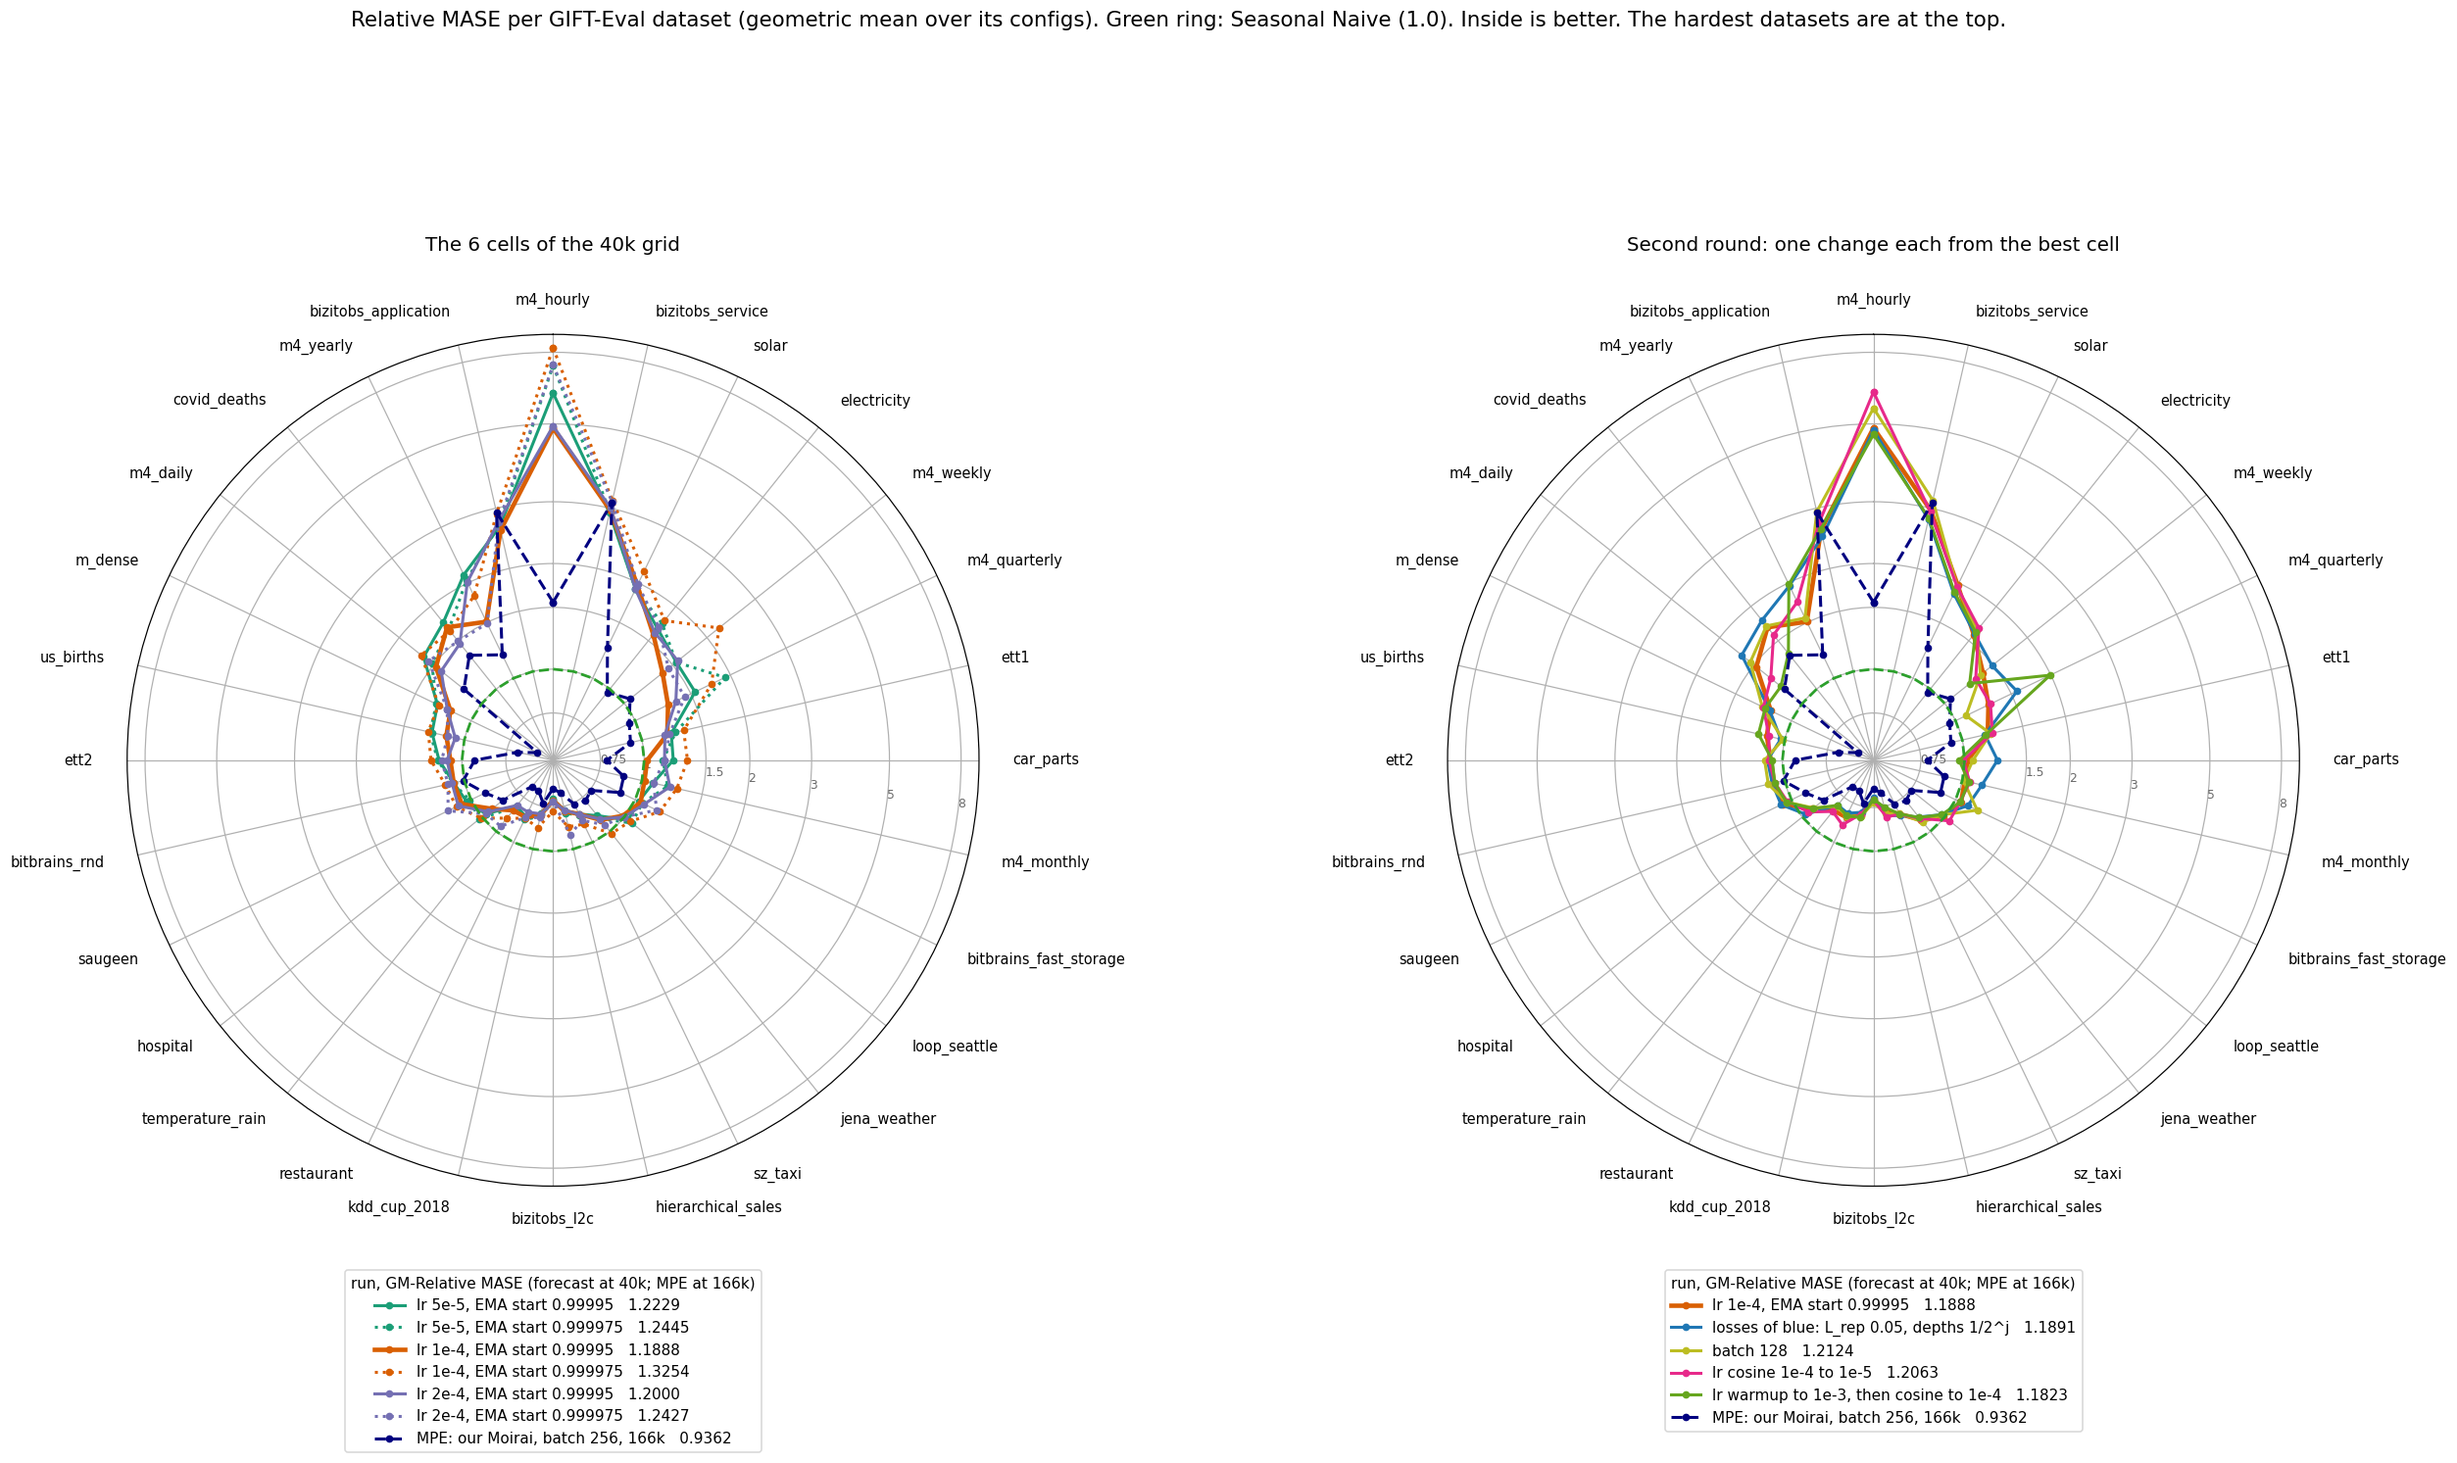
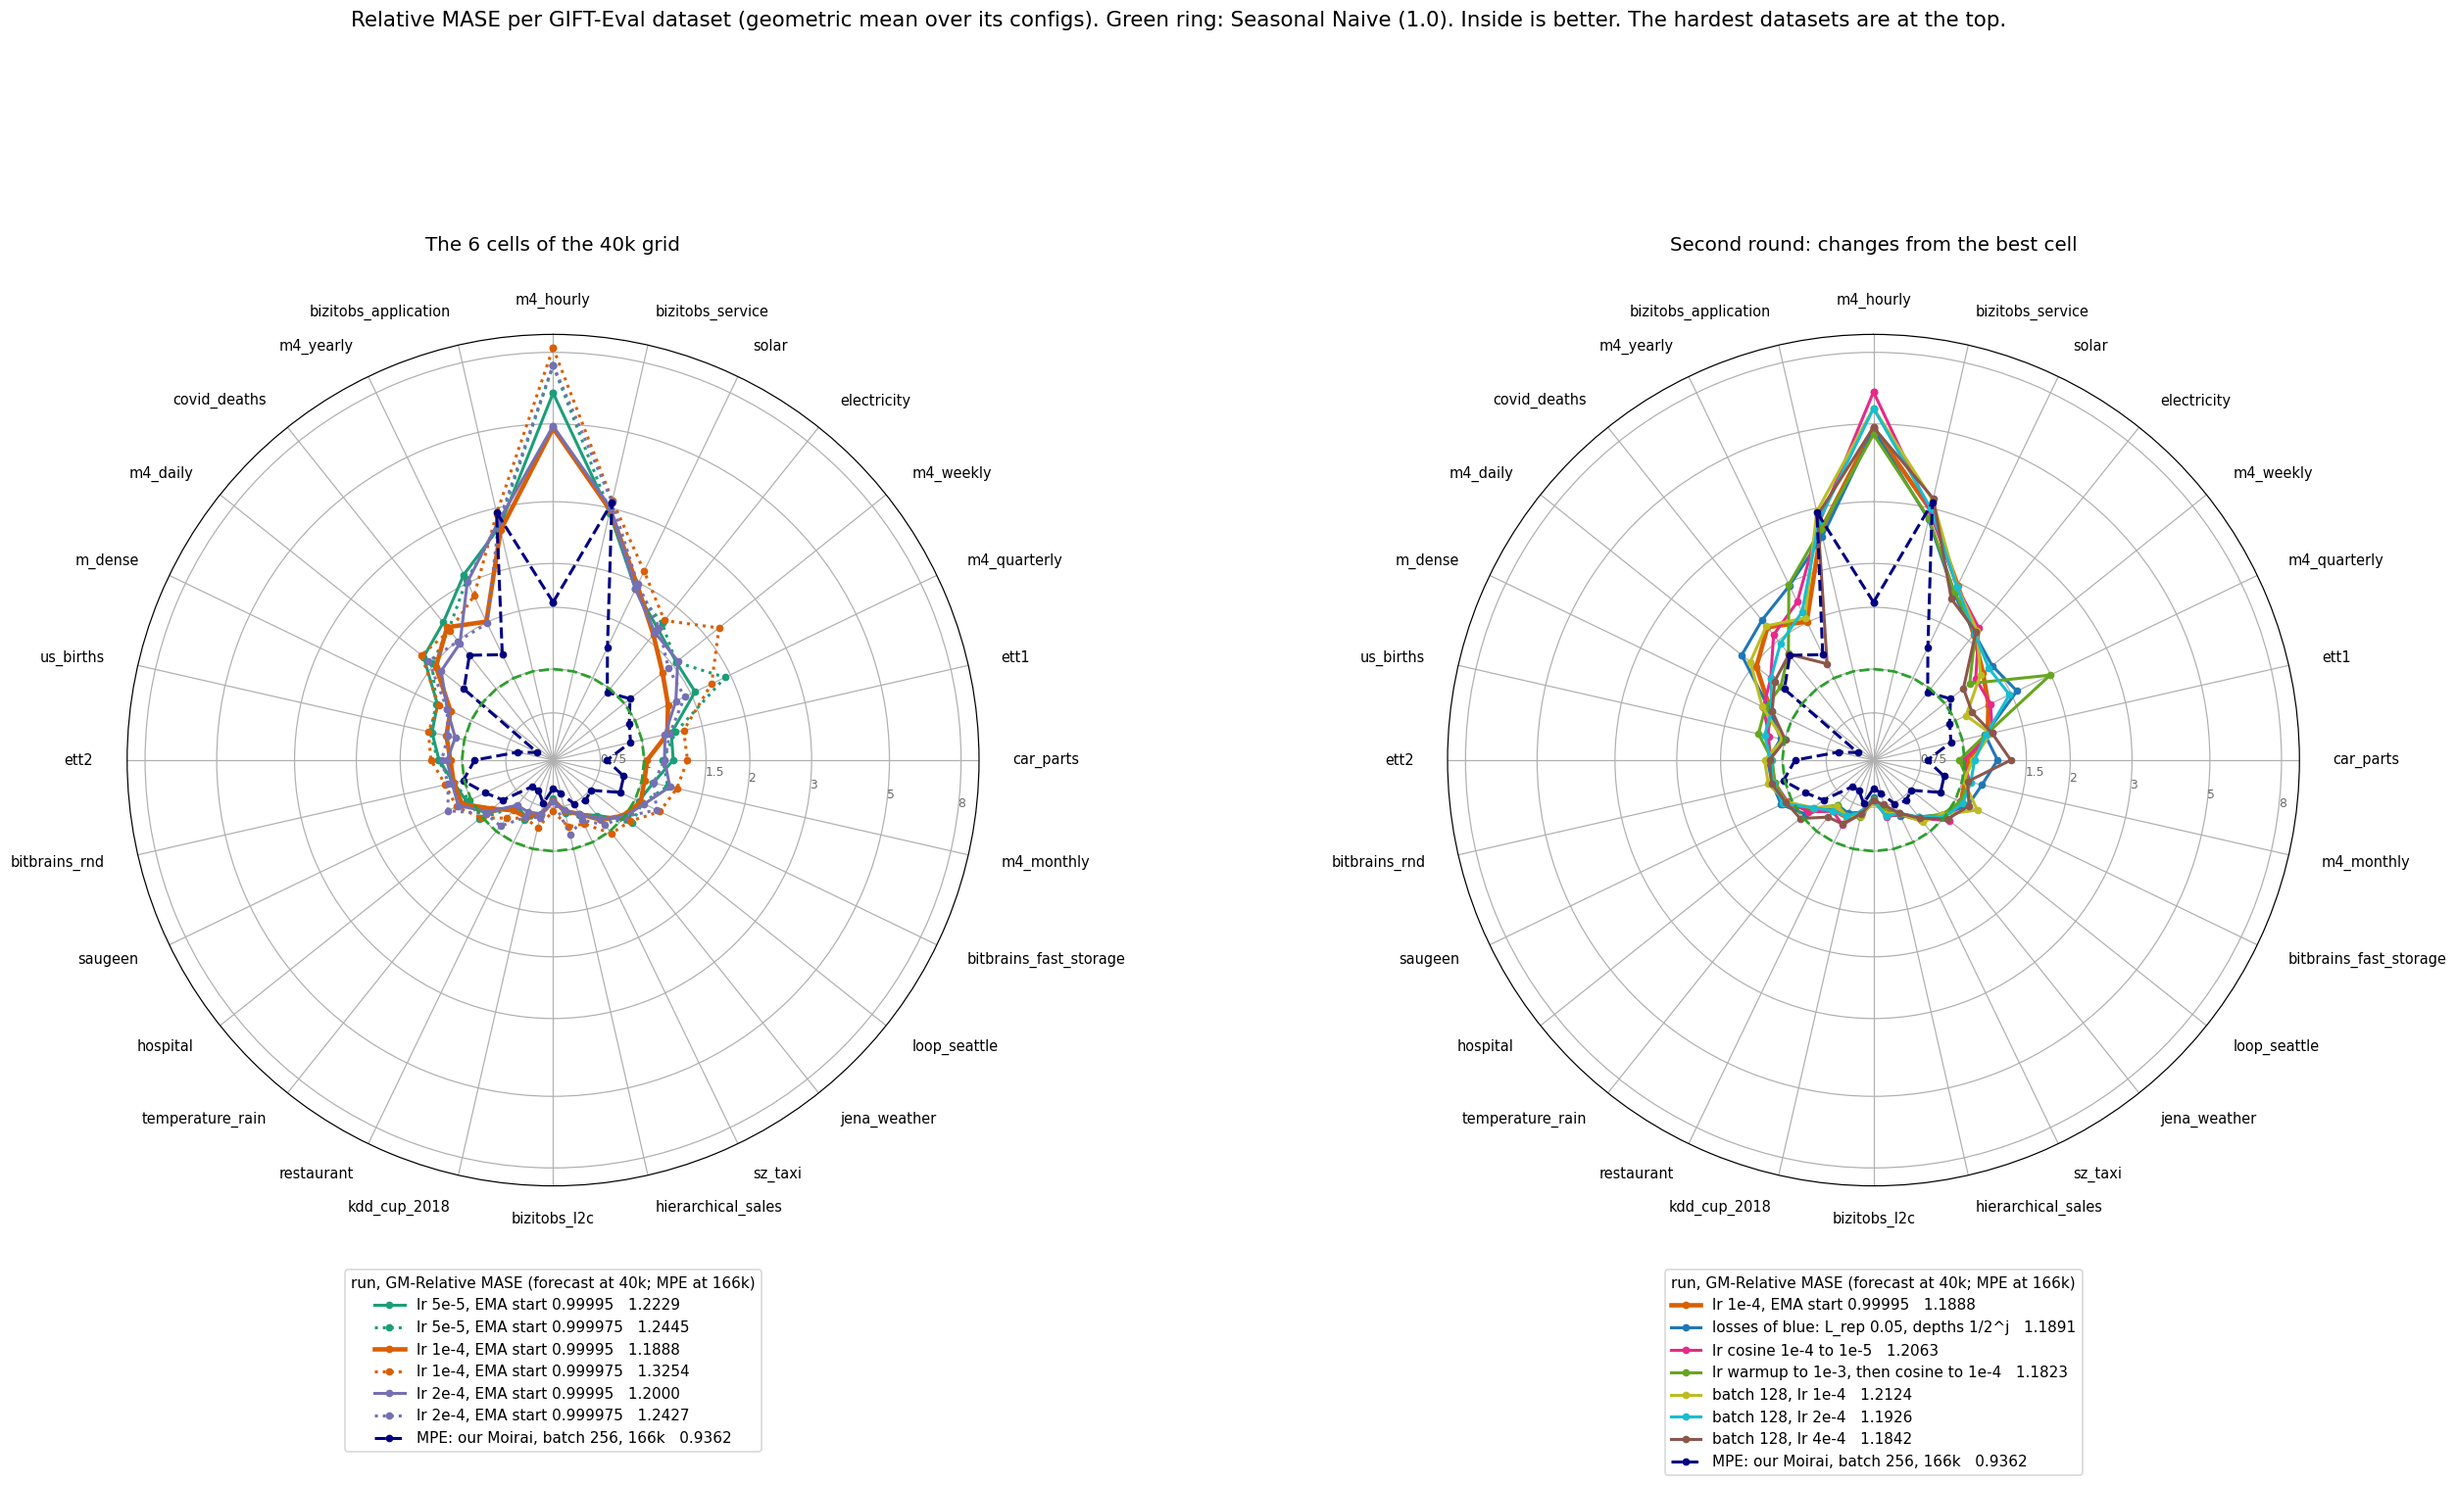
freq_family report: the batch-128 lr search of the 40k grid (lr 2e-4 and 4e-4), run A in the grid figures, one colour per run

diff --git a/reports/2026-10-10_frequency_family_head/scripts/plot_grid40k_round2.py b/reports/2026-10-10_frequency_family_head/scripts/plot_grid40k_round2.py
@@ -1,10 +1,11 @@
 """The training of the second round of the 40k grid (the user, 11-02 and 11-03),
 for the view only: the decisions use the forecast GM-Relative MASE. The best
-cell of the grid (lr 1e-4, EMA start 0.99995) and three directions from it,
-each one alone: the losses of blue (L_rep 0.05, the L_align depth weights
-1/2^j), batch 128 (the same lr), and the lr schedule (C: a cosine from 1e-4 to
-1e-5 over the 40k steps; W: a warmup to 1e-3 over 4k steps, then a cosine to
-1e-4). Three panels on one step axis, means over bins of 500 steps:
+cell of the grid (lr 1e-4, EMA start 0.99995) and the changes from it: the
+losses of blue (L_rep 0.05, the L_align depth weights 1/2^j), the lr schedule
+(C: a cosine from 1e-4 to 1e-5 over the 40k steps; W: a warmup to 1e-3 over 4k
+steps, then a cosine to 1e-4), batch 128 at the lr 1e-4, 2e-4 and 4e-4, and A:
+batch 128 with the warmup of W, then a cosine to 4e-4. Three panels on one step
+axis, means over bins of 500 steps:
 
   1. The lr of each step, from the flags of the run (the formula of
      scheduled_lr in train.py; the optimizer of each 20k save has this lr).
@@ -28,7 +29,7 @@ import matplotlib.pyplot as plt
 import numpy as np
 import pandas as pd
 
-from plot_grid40k import run_score
+from plot_grid40k import ROUND2_COLOURS, run_score
 
 STUDY = Path(__file__).resolve().parent.parent
 GRID = Path("/home/jupyter/cf_runs/grid40k")
@@ -37,17 +38,18 @@ STEPS = 40000
 BIN = 500
 AFTER_WARMUP = 4000
 CONSTANT = (1e-4, 1e-4, STEPS, 0)
-# run -> (label, colour, lr schedule (lr, final lr, end of the anneal, warmup steps),
-# the loss weights and the batch of the best cell)
+# run -> (label, lr schedule (lr, final lr, end of the anneal, warmup steps),
+# the loss weights and the batch of the best cell); the colours: ROUND2_COLOURS
 RUNS = {
-    "g40_lr1em4_tau99995": ("best cell: lr 1e-4, constant", "#1b9e77", CONSTANT, True),
-    "g40b_lr1em4_tau99995_rep005h": ("losses of blue: L_rep 0.05, depths 1/2^j", "#1f77b4",
-                                     CONSTANT, False),
-    "g40b_lr1em4_tau99995_bs128": ("batch 128", "#bcbd22", CONSTANT, False),
-    "g40c_lr1em4_tau99995_cos": ("C: cosine from 1e-4 to 1e-5", "#7570b3",
-                                 (1e-4, 1e-5, STEPS, 0), True),
-    "g40w_lr1em3_wu4k_cos": ("W: warmup to 1e-3 over 4k, cosine to 1e-4", "#e7298a",
-                             (1e-3, 1e-4, STEPS, 4000), True),
+    "g40_lr1em4_tau99995": ("best cell: lr 1e-4, constant", CONSTANT, True),
+    "g40b_lr1em4_tau99995_rep005h": ("losses of blue: L_rep 0.05, depths 1/2^j", CONSTANT, False),
+    "g40c_lr1em4_tau99995_cos": ("C: cosine from 1e-4 to 1e-5", (1e-4, 1e-5, STEPS, 0), True),
+    "g40w_lr1em3_wu4k_cos": ("W: warmup to 1e-3 over 4k, cosine to 1e-4", (1e-3, 1e-4, STEPS, 4000), True),
+    "g40b_lr1em4_tau99995_bs128": ("batch 128, lr 1e-4", CONSTANT, False),
+    "g40b_lr2em4_tau99995_bs128": ("batch 128, lr 2e-4", (2e-4, 2e-4, STEPS, 0), False),
+    "g40b_lr4em4_tau99995_bs128": ("batch 128, lr 4e-4", (4e-4, 4e-4, STEPS, 0), False),
+    "g40w_lr1em3_wu4k_cos4em4_bs128": ("A: batch 128, warmup to 1e-3 over 4k, cosine to 4e-4",
+                                       (1e-3, 4e-4, STEPS, 4000), False),
 }
 
 
@@ -75,11 +77,12 @@ def legend_label(run):
 
 def draw_lr(ax):
     steps = np.arange(0, STEPS + 1, 50)
-    for run, (name, colour, schedule, _) in RUNS.items():
+    for run, (name, schedule, _) in RUNS.items():
         if schedule != CONSTANT or run == "g40_lr1em4_tau99995":
-            label = "lr 1e-4, constant (best cell, losses of blue, batch 128)" \
+            label = "lr 1e-4, constant (best cell, losses of blue, batch 128 at lr 1e-4)" \
                 if schedule == CONSTANT else name
-            ax.plot(steps, [scheduled_lr(s, *schedule) for s in steps], color=colour, lw=2, label=label)
+            ax.plot(steps, [scheduled_lr(s, *schedule) for s in steps], color=ROUND2_COLOURS[run], lw=2,
+                    label=label)
     ax.set(yscale="log", ylabel="learning rate", title="Learning rate")
     ax.legend(fontsize=8, loc="upper right")
 
@@ -97,7 +100,7 @@ def draw_loss(ax, column, runs, title):
     low = min(c.min() for c in curves.values()) * 0.97
     top = steady.max() * 1.03
     for run, series in curves.items():
-        ax.plot(series.index, series, color=RUNS[run][1], lw=2, label=legend_label(run))
+        ax.plot(series.index, series, color=ROUND2_COLOURS[run], lw=2, label=legend_label(run))
     ax.set_ylim(low, top)
     ax.set(ylabel="mean over 500 steps", title=title)
     ax.text(0.99, 0.03, above_note(curves, top), transform=ax.transAxes, ha="right",
@@ -110,12 +113,12 @@ def main():
     draw_lr(axes[0])
     draw_loss(axes[1], "l_align", list(RUNS),
               "L_align at depth 0, before the depth weights. Legend: forecast GM-Relative MASE at 40k")
-    draw_loss(axes[2], "loss", [r for r, v in RUNS.items() if v[3]],
+    draw_loss(axes[2], "loss", [r for r, v in RUNS.items() if v[2]],
               "Total loss (runs with the loss weights and the batch of the best cell)")
     for ax in axes:
         ax.grid(alpha=0.3)
     axes[2].set_xlabel("training step (EMA ramp to 1.0 over the 40k steps)")
-    fig.suptitle("40k grid, second round: the training of the best cell and of 3 directions "
+    fig.suptitle("40k grid, second round: the training of the best cell and of the changes from it "
                  "(view only; decisions use the forecast)", fontsize=11)
     fig.tight_layout()
     fig.savefig(OUT, dpi=130)

diff --git a/reports/2026-10-10_frequency_family_head/scripts/plot_grid40k.py b/reports/2026-10-10_frequency_family_head/scripts/plot_grid40k.py
@@ -6,8 +6,10 @@ and 3 forecaster layers, 40k steps, the EMA ramp to 1.0 over the 40k steps. The
 rows are the learning rate, the columns the EMA start (--ema-tau).
 
 The second round (the user, 11-02 and 11-03): runs from the best cell (lr 1e-4,
-EMA start 0.99995), each with one change (the losses of blue, batch 128, or an
-lr schedule). Its panel has the best cell as its first row.
+EMA start 0.99995), each with one change (the losses of blue or an lr
+schedule), and batch 128 at the lr 1e-4, 2e-4 and 4e-4, then with the warmup
+of W and a cosine to the best of these lr. Its panel has the best cell as its
+first row.
 
 Each cell is the forecast GM-Relative MASE of head B4 at 40k (30k head steps,
 97 configs). Lower is better. A grey cell has no score yet.
@@ -41,10 +43,19 @@ BEST = "g40_lr1em4_tau99995"
 # run -> (label, lr): the second round, each run one change from the best cell
 ROUND2 = {BEST: ("best cell (no change)", "1e-4"),
           "g40b_lr1em4_tau99995_rep005h": ("losses of blue:\nL_rep 0.05, depths 1/2^j", "1e-4"),
-          "g40b_lr1em4_tau99995_bs128": ("batch 128", "1e-4"),
           "g40c_lr1em4_tau99995_cos": ("lr cosine\n1e-4 to 1e-5", "1e-4 to 1e-5"),
           "g40w_lr1em3_wu4k_cos": ("lr warmup to 1e-3,\nthen cosine to 1e-4",
-                                   "warmup to 1e-3, cosine to 1e-4")}
+                                   "warmup to 1e-3, cosine to 1e-4"),
+          "g40b_lr1em4_tau99995_bs128": ("batch 128, lr 1e-4", "1e-4"),
+          "g40b_lr2em4_tau99995_bs128": ("batch 128, lr 2e-4", "2e-4"),
+          "g40b_lr4em4_tau99995_bs128": ("batch 128, lr 4e-4", "4e-4"),
+          "g40w_lr1em3_wu4k_cos4em4_bs128": ("batch 128, warmup to 1e-3,\nthen cosine to 4e-4",
+                                             "warmup to 1e-3, cosine to 4e-4")}
+# run -> its colour in the radar and in the training figure of the second round
+ROUND2_COLOURS = {BEST: "#d95f02", "g40b_lr1em4_tau99995_rep005h": "#1f77b4",
+                  "g40c_lr1em4_tau99995_cos": "#e7298a", "g40w_lr1em3_wu4k_cos": "#66a61e",
+                  "g40b_lr1em4_tau99995_bs128": "#bcbd22", "g40b_lr2em4_tau99995_bs128": "#17becf",
+                  "g40b_lr4em4_tau99995_bs128": "#8c564b", "g40w_lr1em3_wu4k_cos4em4_bs128": "#d62728"}
 
 
 def run_score(run):
@@ -142,14 +153,14 @@ def draw_round2(ax, round2, low, high):
     ax.set_xticks([0], ["the flags of the best cell,\nwith the change of the row"])
     ax.set_yticks(range(len(ROUND2)), [label for label, _ in ROUND2.values()], fontsize=9)
     scored = int(np.sum(~np.isnan(round2[1:])))
-    ax.set_title(f"Second round: one change each from\nthe best cell ({scored} of {len(ROUND2) - 1} scored)")
+    ax.set_title(f"Second round: changes from\nthe best cell ({scored} of {len(ROUND2) - 1} scored)")
 
 
 def main():
     grid, round2 = grid_scores(), round2_scores()
     write_table(grid, round2)
     low, high = color_scale(grid, round2)
-    fig, (left, right) = plt.subplots(1, 2, figsize=(12, 5.5), gridspec_kw={"width_ratios": [2, 1.2]})
+    fig, (left, right) = plt.subplots(1, 2, figsize=(12, 7.5), gridspec_kw={"width_ratios": [2, 1.2]})
     image = draw_grid(left, grid, low, high)
     draw_round2(right, round2, low, high)
     fig.colorbar(image, ax=[left, right], label="forecast GM-Relative MASE (lower is better)")

diff --git a/reports/2026-10-10_frequency_family_head/scripts/plot_grid40k_configs.py b/reports/2026-10-10_frequency_family_head/scripts/plot_grid40k_configs.py
@@ -23,7 +23,7 @@ matplotlib.use("Agg")
 import matplotlib.pyplot as plt
 import pandas as pd
 
-from plot_grid40k import BEST, LRS, ROUND2, SCORES, TAUS
+from plot_grid40k import BEST, LRS, ROUND2, ROUND2_COLOURS, SCORES, TAUS
 
 STUDY = Path(__file__).resolve().parent.parent
 MOIRAI = STUDY.parent / "2026-09-06_moirai_small_size"
@@ -38,10 +38,8 @@ TAU_STYLES = {"0.99995": "-", "0.999975": ":"}
 # run -> (legend label, colour, line style)
 GRID_LINES = {f"g40_{lr_part}_{tau_part}": (f"lr {lr}, EMA start {tau}", LR_COLOURS[lr], TAU_STYLES[tau])
               for lr, (_, lr_part) in LRS.items() for tau, (_, tau_part) in TAUS.items()}
-SECOND_COLOURS = ["#1f77b4", "#bcbd22", "#e7298a", "#66a61e"]
 SECOND_LINES = {BEST: GRID_LINES[BEST]} | {
-    run: (label.replace("\n", " "), colour, "-")
-    for (run, (label, _)), colour in zip(list(ROUND2.items())[1:], SECOND_COLOURS)}
+    run: (label.replace("\n", " "), ROUND2_COLOURS[run], "-") for run, (label, _) in list(ROUND2.items())[1:]}
 
 
 def grid_mase():
@@ -91,7 +89,7 @@ def main():
     fig, axes = plt.subplots(1, 2, figsize=(26, 13), subplot_kw=dict(polar=True),
                              gridspec_kw=dict(wspace=0.55))
     draw_radar(axes[0], values, grid, labels, scores, "The 6 cells of the 40k grid")
-    draw_radar(axes[1], values, second, labels, scores, "Second round: one change each from the best cell")
+    draw_radar(axes[1], values, second, labels, scores, "Second round: changes from the best cell")
     fig.suptitle("Relative MASE per GIFT-Eval dataset (geometric mean over its configs). Green ring: "
                  "Seasonal Naive (1.0). Inside is better. The hardest datasets are at the top.",
                  fontsize=14, y=1.03)

diff --git a/reports/2026-10-10_frequency_family_head/frequency_family_head.md b/reports/2026-10-10_frequency_family_head/frequency_family_head.md
@@ -59,9 +59,11 @@ Each cell is one run of 40k steps at width 64, with 1 encoder layer, 3 forecaste
 The EMA momentum goes to 1.0 over the 40k steps.
 The best cell is lr 1e-4 with the EMA start 0.99995 (1.1888), the settings of violet.
 The EMA start 0.99995 is better than 0.999975 at each learning rate.
-Each run of the second round changes one setting of the best cell.
-A warmup of the learning rate to 1e-3 over 4k steps, then a cosine to 1e-4, gives 1.1823, the only gain.
-The losses of blue give 1.1891, a cosine from 1e-4 to 1e-5 gives 1.2063, and batch 128 at lr 1e-4 gives 1.2124.
+The second round starts from the best cell.
+A warmup of the learning rate to 1e-3 over 4k steps, then a cosine to 1e-4, gives 1.1823, the lowest score.
+The losses of blue give 1.1891, and a cosine from 1e-4 to 1e-5 gives 1.2063.
+At batch 128, the learning rates 1e-4, 2e-4 and 4e-4 give 1.2124, 1.1926 and 1.1842.
+The score decreases up to 4e-4, the highest learning rate of the search.
 
 ![Relative MASE per GIFT-Eval dataset](plots/grid40k_radar.png)
 
